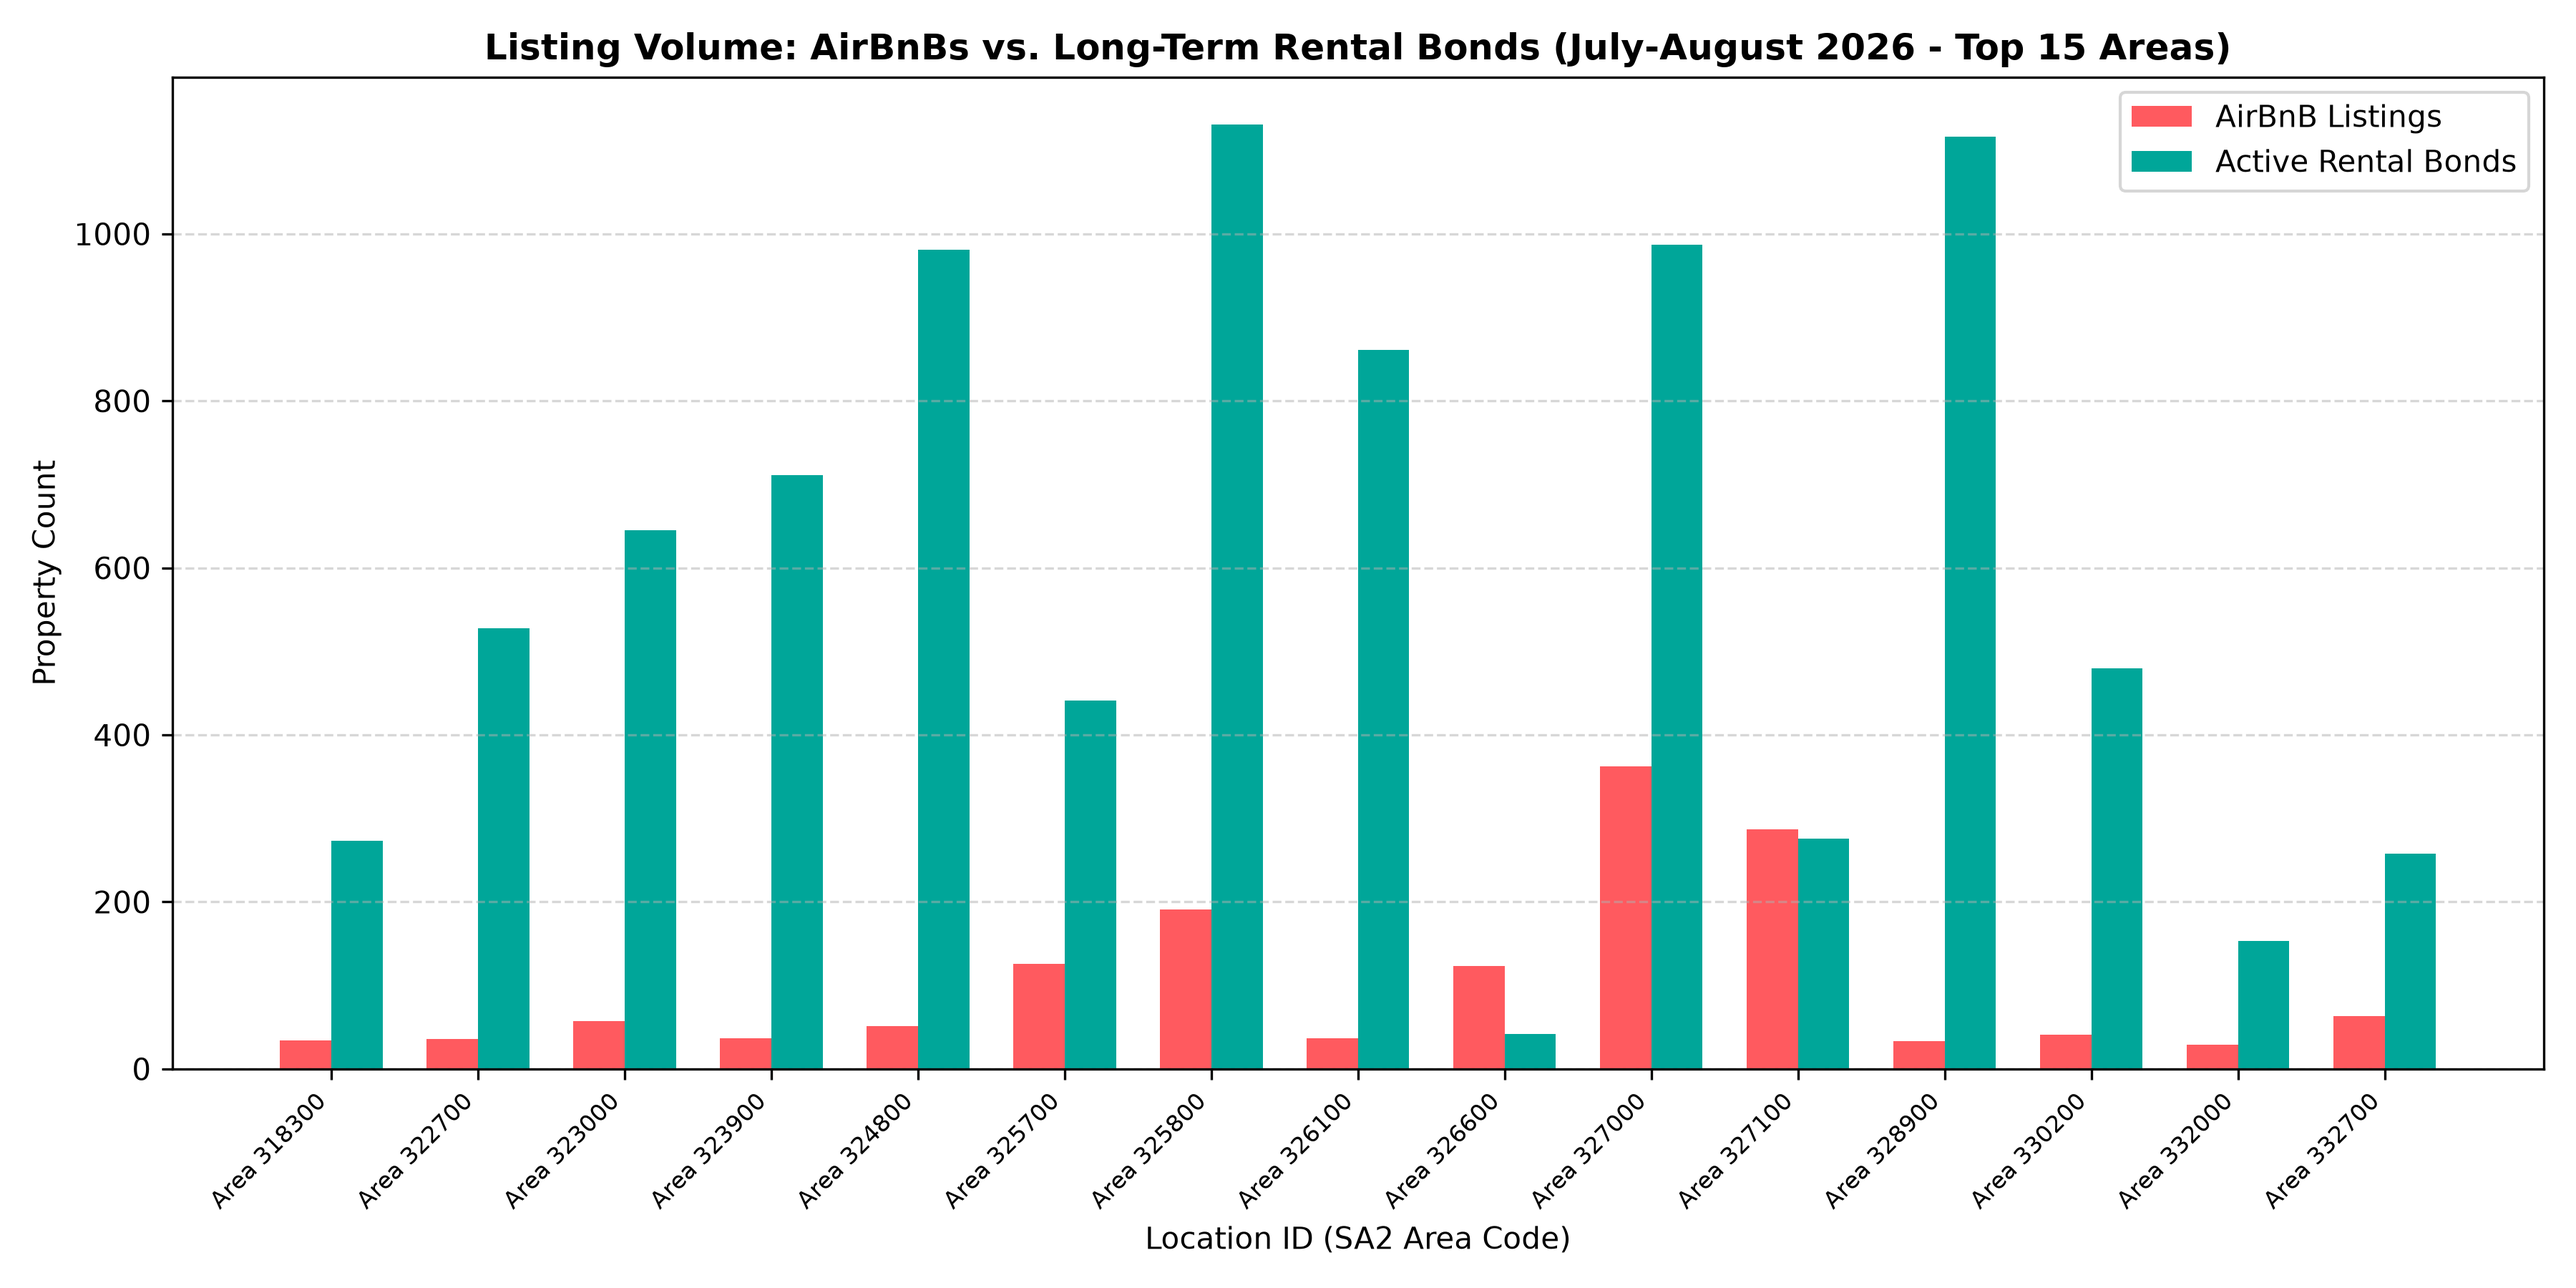
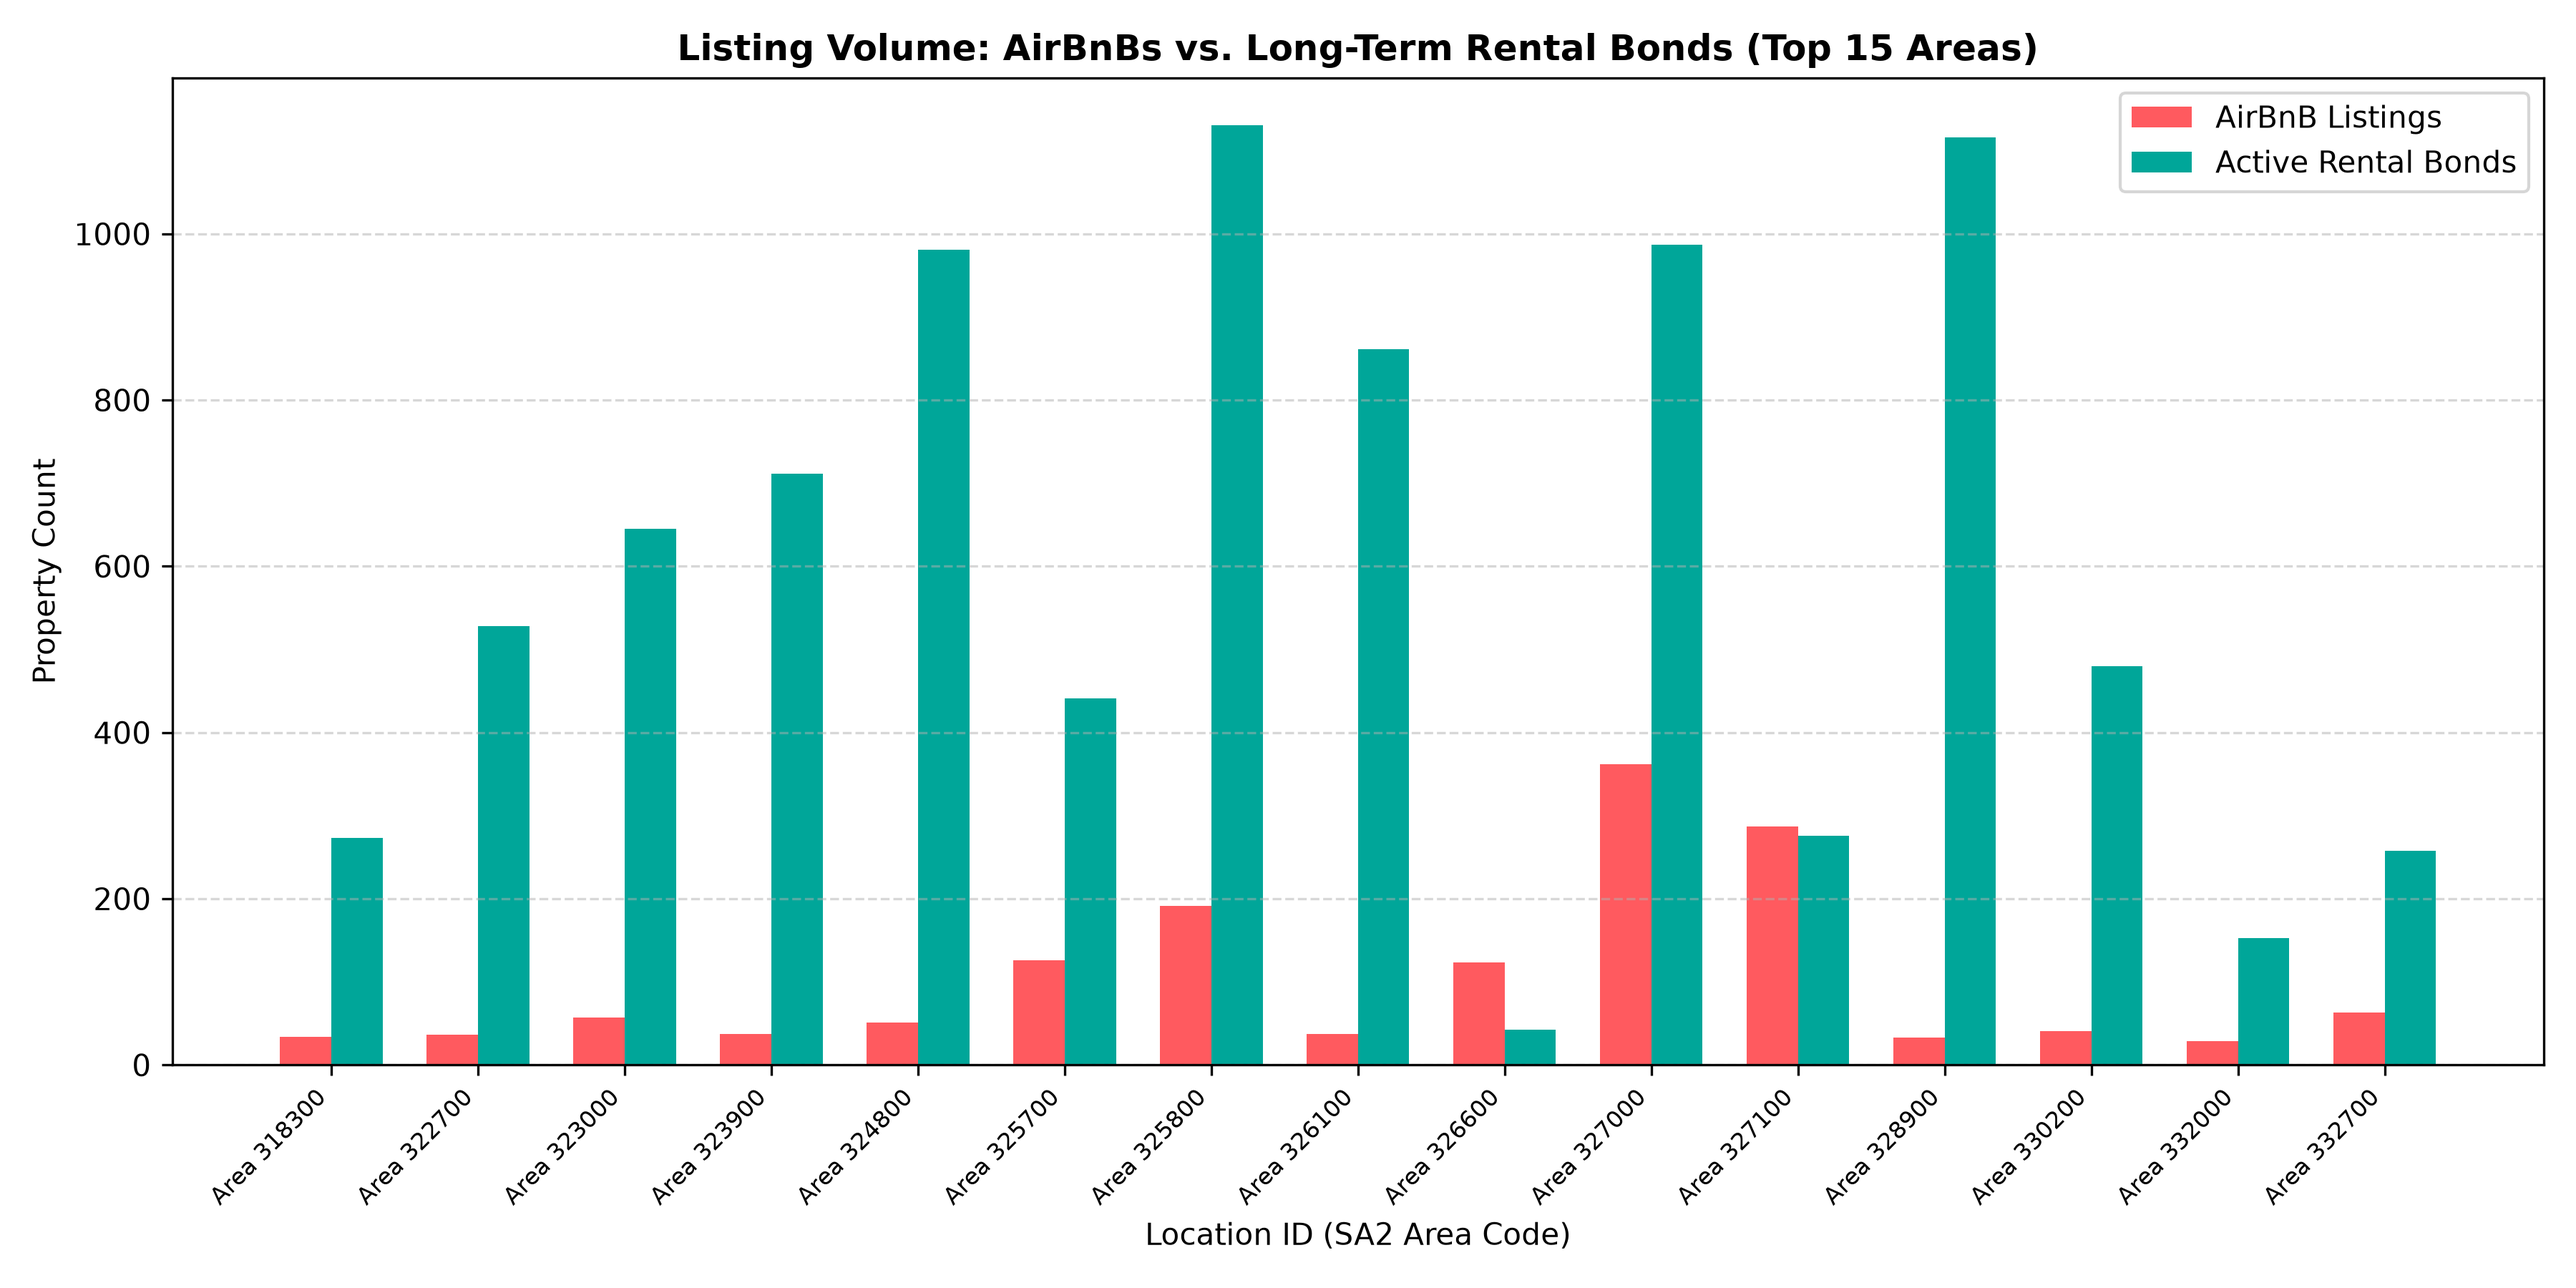
Update analysis code and regenerate visualisations with July-August 2026 data

diff --git a/Deliverables/Deliverable-7/src/analysis.py b/Deliverables/Deliverable-7/src/analysis.py
@@ -1,0 +1,154 @@
+from pathlib import Path
+import pandas as pd
+import matplotlib.pyplot as plt
+
+# ==============================================================================
+# CONFIGURATION & AUTOMATED REPOSITORY SEARCH
+# ==============================================================================
+SCRIPT_DIR = Path(__file__).resolve().parent
+REPO_ROOT = SCRIPT_DIR.parents[2]  # Resolves up to project root from src/
+
+# Target Deliverable 7 merged dataset name
+FILENAME = "july_august_2026_airbnb_with_rental_bonds.csv"
+
+# Search recursively within the project folder for the dataset
+found_files = list(REPO_ROOT.rglob(FILENAME))
+
+if not found_files:
+    # Case-insensitive fallback search
+    found_files = [p for p in REPO_ROOT.rglob("*.csv") if "july_august" in p.name.lower() or "rental_bonds" in p.name.lower()]
+
+if found_files:
+    INPUT_PATH = found_files[0]
+else:
+    raise FileNotFoundError(
+        f"Could not locate '{FILENAME}' anywhere inside project folder ({REPO_ROOT}). "
+        "Please run 'run_pipeline.py' first to generate Deliverable 7's output CSV."
+    )
+
+# Explicitly direct saved plots to Deliverable-7 Output folder
+OUTPUT_DIR = REPO_ROOT / "Deliverables" / "Deliverable-7" / "Output"
+OUTPUT_DIR.mkdir(parents=True, exist_ok=True)
+
+# ==============================================================================
+# SANITY CHECK & DATA LOADING
+# ==============================================================================
+def load_and_validate_data(file_path: Path) -> pd.DataFrame:
+    """Loads input CSV, cleans numeric types, filters invalid rows, and runs sanity assertions."""
+    assert file_path.exists(), f"Error: Input file does not exist at {file_path}"
+    
+    df = pd.read_csv(file_path)
+    
+    # 1. Non-empty check
+    assert not df.empty, "Error: Loaded dataset is empty."
+    
+    # 2. Required columns check
+    required_cols = {'price', 'median_rent', 'area_code'}
+    assert required_cols.issubset(df.columns), f"Error: Missing required columns. Needed: {required_cols}"
+    
+    # Clean price column if formatted as currency string
+    if df['price'].dtype == object:
+        df['price'] = df['price'].astype(str).str.replace('$', '', regex=False).str.replace(',', '', regex=False).astype(float)
+
+    # Clean median_rent if formatted as currency string
+    if df['median_rent'].dtype == object:
+        df['median_rent'] = df['median_rent'].astype(str).str.replace('$', '', regex=False).str.replace(',', '', regex=False).astype(float)
+
+    # Sanity Check & Data Filtering for Non-Positive Prices
+    initial_count = len(df)
+    df = df[(df['price'] > 0) & (df['median_rent'] > 0)].copy()
+    dropped_count = initial_count - len(df)
+    
+    if dropped_count > 0:
+        print(f"⚠ Sanity Audit: Dropped {dropped_count} row(s) with non-positive or zero prices.")
+
+    # 3. Post-filtering assertion check
+    assert (df['price'] > 0).all(), "Error: Dataset still contains non-positive values in 'price'."
+    assert (df['median_rent'] > 0).all(), "Error: Dataset still contains non-positive values in 'median_rent'."
+
+    # Feature Engineering
+    df['bond_daily_rent'] = df['median_rent'] / 7
+    df['price_gap'] = df['price'] - df['bond_daily_rent']
+    
+    print(f"✓ Sanity Check Passed: Data successfully loaded and validated ({len(df)} valid records from {file_path.name}).")
+    return df
+
+# ==============================================================================
+# REUSABLE PLOTTING HELPER FUNCTIONS
+# ==============================================================================
+def plot_price_gap(df: pd.DataFrame, title_suffix: str, output_path: Path, top_n: int = None) -> None:
+    """Generates and saves a bar chart representing median nightly price gap per SA2 area."""
+    plot_df = df.copy()
+    if top_n:
+        top_areas = plot_df['area_code'].value_counts().head(top_n).index
+        plot_df = plot_df[plot_df['area_code'].isin(top_areas)]
+        
+    gap_df = (
+        plot_df.groupby('area_code')['price_gap']
+        .median()
+        .reset_index()
+        .sort_values(by='price_gap', ascending=False)
+    )
+
+    labels = [f"Area {int(a)}" if top_n else str(int(a)) for a in gap_df['area_code']]
+    
+    plt.figure(figsize=(12 if top_n else 16, 6))
+    plt.bar(labels, gap_df['price_gap'], color='#2b5c8f', edgecolor='black', alpha=0.85)
+    plt.title(f'Median Nightly Price Gap (AirBnB Rate - Long-Term Rent) - {title_suffix}', fontsize=12, fontweight='bold')
+    plt.xlabel('Location ID (SA2 Area Code)', fontsize=10)
+    plt.ylabel('Median Price Gap ($ / Night)', fontsize=10)
+    plt.xticks(rotation=45 if top_n else 90, ha='right' if top_n else 'center', fontsize=8)
+    plt.grid(axis='y', linestyle='--', alpha=0.5)
+    plt.tight_layout()
+    plt.savefig(output_path, dpi=300)
+    plt.close()
+    print(f"Saved plot: {output_path.name}")
+
+
+def plot_listing_volumes(df: pd.DataFrame, title_suffix: str, output_path: Path, top_n: int = None) -> None:
+    """Generates and saves a grouped bar chart comparing AirBnB counts vs Active Bonds."""
+    plot_df = df.copy()
+    if top_n:
+        top_areas = plot_df['area_code'].value_counts().head(top_n).index
+        plot_df = plot_df[plot_df['area_code'].isin(top_areas)]
+
+    counts = plot_df.groupby('area_code').agg(
+        airbnb_count=('id', 'nunique') if 'id' in plot_df.columns else ('price', 'count'),
+        active_bonds=('active_bonds', 'first')
+    ).reset_index()
+
+    fig, ax = plt.subplots(figsize=(12 if top_n else 16, 6))
+    x_coords = range(len(counts))
+    width = 0.35
+
+    ax.bar([i - width/2 for i in x_coords], counts['airbnb_count'], width=width, label='AirBnB Listings', color='#ff5a5f')
+    ax.bar([i + width/2 for i in x_coords], counts['active_bonds'], width=width, label='Active Rental Bonds', color='#00a699')
+
+    labels = [f"Area {int(a)}" if top_n else str(int(a)) for a in counts['area_code']]
+    ax.set_xticks(x_coords)
+    ax.set_xticklabels(labels, rotation=45 if top_n else 90, ha='right' if top_n else 'center', fontsize=8)
+    ax.set_ylabel('Property Count', fontsize=10)
+    ax.set_xlabel('Location ID (SA2 Area Code)', fontsize=10)
+    ax.set_title(f'Listing Volume: AirBnBs vs. Long-Term Rental Bonds ({title_suffix})', fontweight='bold')
+    ax.legend()
+    ax.grid(axis='y', linestyle='--', alpha=0.5)
+
+    plt.tight_layout()
+    plt.savefig(output_path, dpi=300)
+    plt.close()
+    print(f"Saved plot: {output_path.name}")
+
+# ==============================================================================
+# MAIN EXECUTION PIPELINE
+# ==============================================================================
+if __name__ == "__main__":
+    df = load_and_validate_data(INPUT_PATH)
+
+    # Deliverable 7 required visualisations:
+    # 1. Price Gap Visualizations
+    plot_price_gap(df, "All Christchurch Areas", OUTPUT_DIR / 'price_gap_all_areas.png')
+    plot_price_gap(df, "Top 15 Areas", OUTPUT_DIR / 'price_gap_top15.png', top_n=15)
+
+    # 2. Listing Volume Visualizations
+    plot_listing_volumes(df, "All Christchurch Areas", OUTPUT_DIR / 'listing_volumes_all_areas.png')
+    plot_listing_volumes(df, "Top 15 Areas", OUTPUT_DIR / 'listing_volumes_top15.png', top_n=15)

diff --git a/Deliverables/Deliverable-7/src/analysis3.py b/Deliverables/Deliverable-7/src/analysis3.py
@@ -1,0 +1,137 @@
+from pathlib import Path
+import pandas as pd
+import matplotlib.pyplot as plt
+
+# ==============================================================================
+# CONFIGURATION & REPOSITORY FILE SEARCH
+# ==============================================================================
+SCRIPT_DIR = Path(__file__).resolve().parent
+REPO_ROOT = SCRIPT_DIR.parents[2] if len(SCRIPT_DIR.parents) >= 3 else SCRIPT_DIR
+FILENAME = "listings_1_updated.csv"
+
+# Locate dataset dynamically anywhere in the project tree
+found_files = list(REPO_ROOT.rglob(FILENAME)) if REPO_ROOT.exists() else []
+if not found_files:
+    found_files = list(SCRIPT_DIR.rglob(FILENAME)) + list(Path.cwd().rglob(FILENAME))
+
+INPUT_PATH = found_files[0] if found_files else SCRIPT_DIR / FILENAME
+OUTPUT_DIR = INPUT_PATH.parent
+
+# ==============================================================================
+# DATA LOADING & SANITY CHECKS
+# ==============================================================================
+def load_and_validate_listings(file_path: Path) -> pd.DataFrame:
+    """Loads raw listings dataset and validates required columns and numeric integrity."""
+    assert file_path.exists(), f"Error: Dataset not found at {file_path}"
+    
+    df = pd.read_csv(file_path, encoding='latin1')
+    
+    # 1. Non-empty check
+    assert not df.empty, "Error: Loaded dataset is empty."
+    
+    # 2. Required columns check
+    required_cols = {'price', 'neighbourhood_group', 'last_review', 'number_of_reviews'}
+    assert required_cols.issubset(df.columns), f"Error: Missing columns. Required: {required_cols}"
+    
+    # Clean price column if formatted as string currency
+    if df['price'].dtype == object:
+        df['price'] = df['price'].astype(str).str.replace('$', '', regex=False).str.replace(',', '', regex=False).astype(float)
+
+    # 3. Non-negative values assertions
+    assert (df['price'].dropna() >= 0).all(), "Error: Negative price values found."
+    assert (df['number_of_reviews'].dropna() >= 0).all(), "Error: Negative review counts found."
+
+    print(f"✓ Sanity Check Passed: Successfully loaded {len(df)} rows from {file_path.name}")
+    return df
+
+# ==============================================================================
+# ANALYSIS & PLOTTING FUNCTIONS
+# ==============================================================================
+def plot_price_distributions(df: pd.DataFrame, output_dir: Path) -> None:
+    """Generates price distribution histograms for All NZ vs Christchurch City."""
+    price_all = df['price'].dropna()
+    price_chch = df.loc[df['neighbourhood_group'] == 'Christchurch City', 'price'].dropna()
+
+    print(f"\nAll NZ price: n={len(price_all)}, median={price_all.median():.0f}, mean={price_all.mean():.0f}")
+    print(f"Christchurch price: n={len(price_chch)}, median={price_chch.median():.0f}, mean={price_chch.mean():.0f}")
+
+    # Capped at 99th percentile to prevent extreme outliers from compressing the plots
+    upper_cutoff = price_all.quantile(0.99)
+
+    fig, axes = plt.subplots(1, 2, figsize=(13, 5))
+
+    # Left: All NZ
+    axes[0].hist(price_all[price_all <= upper_cutoff], bins=50, color='#2b6cb0', edgecolor='white')
+    axes[0].set_title(f'Price Distribution — All New Zealand\n(n={len(price_all)}, capped at 99th pct = ${upper_cutoff:.0f})')
+    axes[0].set_xlabel('Price (NZD per night)')
+    axes[0].set_ylabel('Number of listings')
+
+    # Right: Christchurch City
+    axes[1].hist(price_chch[price_chch <= upper_cutoff], bins=50, color='#c05621', edgecolor='white')
+    axes[1].set_title(f'Price Distribution — Christchurch City\n(n={len(price_chch)}, capped at ${upper_cutoff:.0f})')
+    axes[1].set_xlabel('Price (NZD per night)')
+    axes[1].set_ylabel('Number of listings')
+
+    plt.tight_layout()
+    out_path = output_dir / 'price_distribution.png'
+    plt.savefig(out_path, dpi=150)
+    plt.close()
+    print(f"Saved plot: {out_path.name}")
+
+
+def plot_review_recency(df: pd.DataFrame, output_dir: Path) -> None:
+    """Calculates days since last review relative to the reference date and plots recency."""
+    df['last_review_dt'] = pd.to_datetime(df['last_review'], errors='coerce')
+    reference_date = df['last_review_dt'].max()
+    
+    if pd.isna(reference_date):
+        reference_date = pd.Timestamp.today()
+
+    print(f"\nReference date used for 'days ago' calc: {reference_date.date()}")
+
+    df['days_since_last_review'] = (reference_date - df['last_review_dt']).dt.days
+    days_since = df['days_since_last_review'].dropna()
+
+    print(f"Listings with a review date: {len(days_since)} / {len(df)}")
+    print(f"Median days since last review: {days_since.median():.0f}")
+
+    plt.figure(figsize=(9, 5.5))
+    plt.hist(days_since, bins=60, color='#2f855a', edgecolor='white')
+    plt.title(f'Days Since Last Review (n={len(days_since)} listings with a review)')
+    plt.xlabel('Days since last review')
+    plt.ylabel('Number of listings')
+    plt.tight_layout()
+    
+    out_path = output_dir / 'days_since_last_review.png'
+    plt.savefig(out_path, dpi=150)
+    plt.close()
+    print(f"Saved plot: {out_path.name}")
+
+
+def export_top_reviewed(df: pd.DataFrame, output_dir: Path) -> None:
+    """Identifies top 10% most-reviewed listings and exports them to CSV."""
+    threshold = df['number_of_reviews'].quantile(0.90)
+    top10 = df[df['number_of_reviews'] >= threshold].sort_values('number_of_reviews', ascending=False)
+
+    print(f"\nTop 10% cutoff: number_of_reviews >= {threshold:.0f}")
+    print(f"Number of listings in top 10%: {len(top10)}")
+
+    cols_to_show = ['id', 'name', 'neighbourhood_group', 'neighbourhood', 'room_type', 'price', 'number_of_reviews']
+    available_cols = [c for c in cols_to_show if c in top10.columns]
+    
+    top10_out = top10[available_cols]
+    csv_path = output_dir / 'top_10_percent_reviewed_listings.csv'
+    top10_out.to_csv(csv_path, index=False)
+    
+    print(f"Saved top-reviewed listings to {csv_path.name}")
+    print("\nTop 15 most-reviewed listings preview:")
+    print(top10_out.head(15).to_string(index=False))
+
+# ==============================================================================
+# MAIN PIPELINE EXECUTION
+# ==============================================================================
+if __name__ == '__main__':
+    df = load_and_validate_listings(INPUT_PATH)
+    plot_price_distributions(df, OUTPUT_DIR)
+    plot_review_recency(df, OUTPUT_DIR)
+    export_top_reviewed(df, OUTPUT_DIR)
